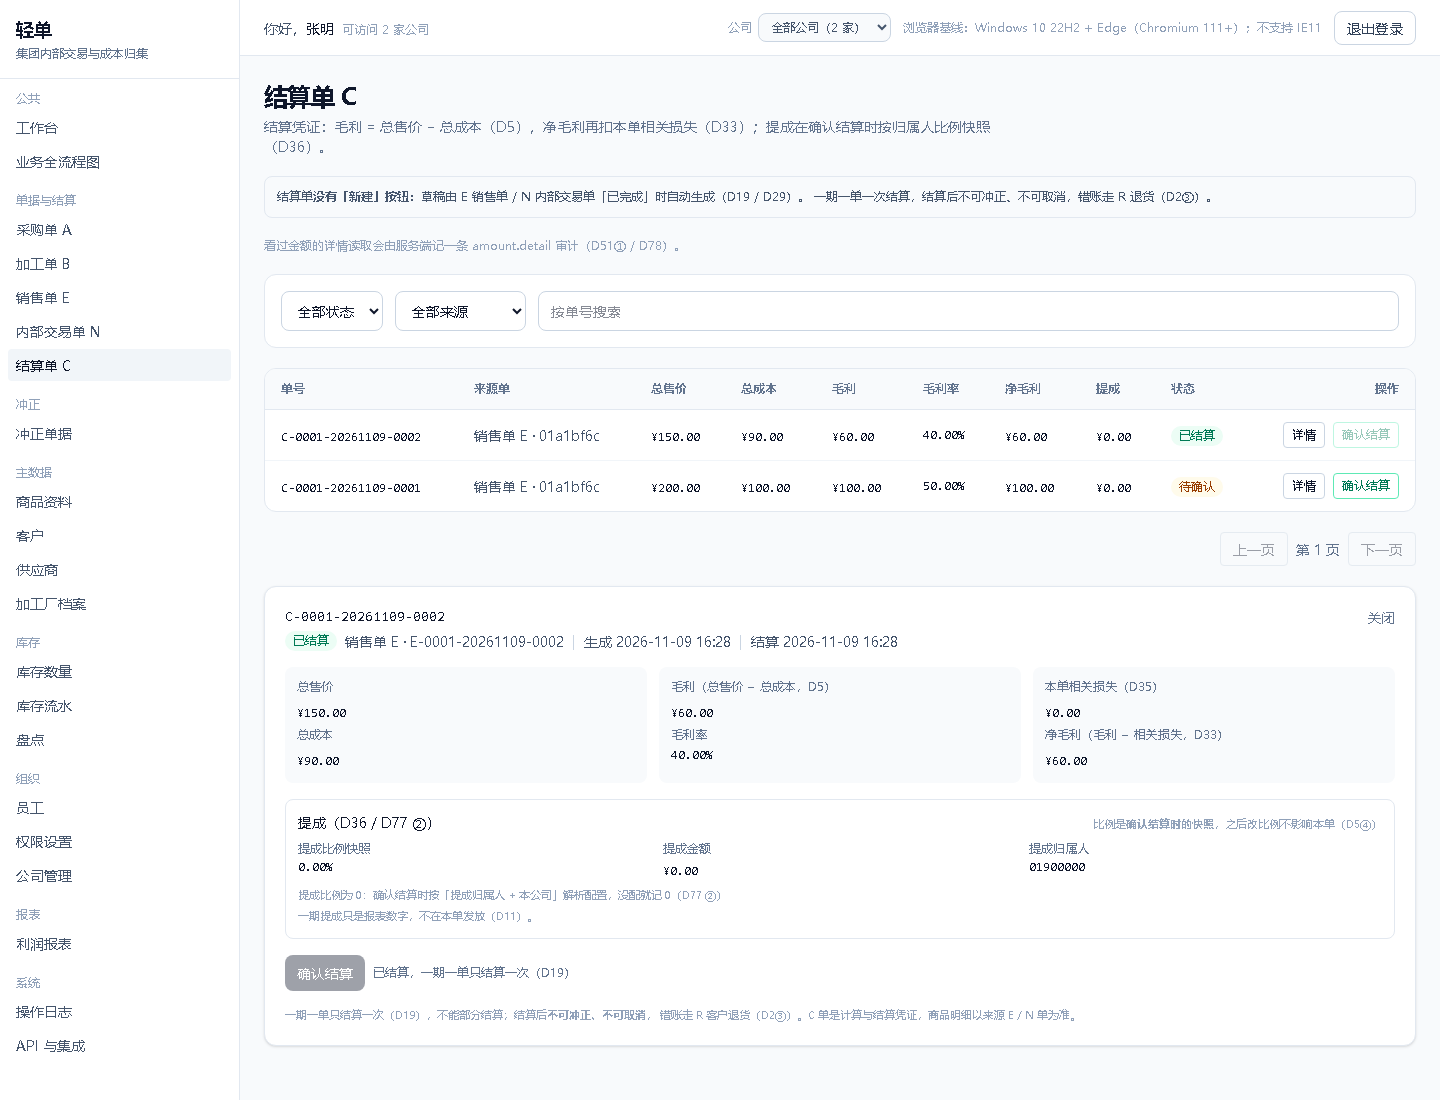
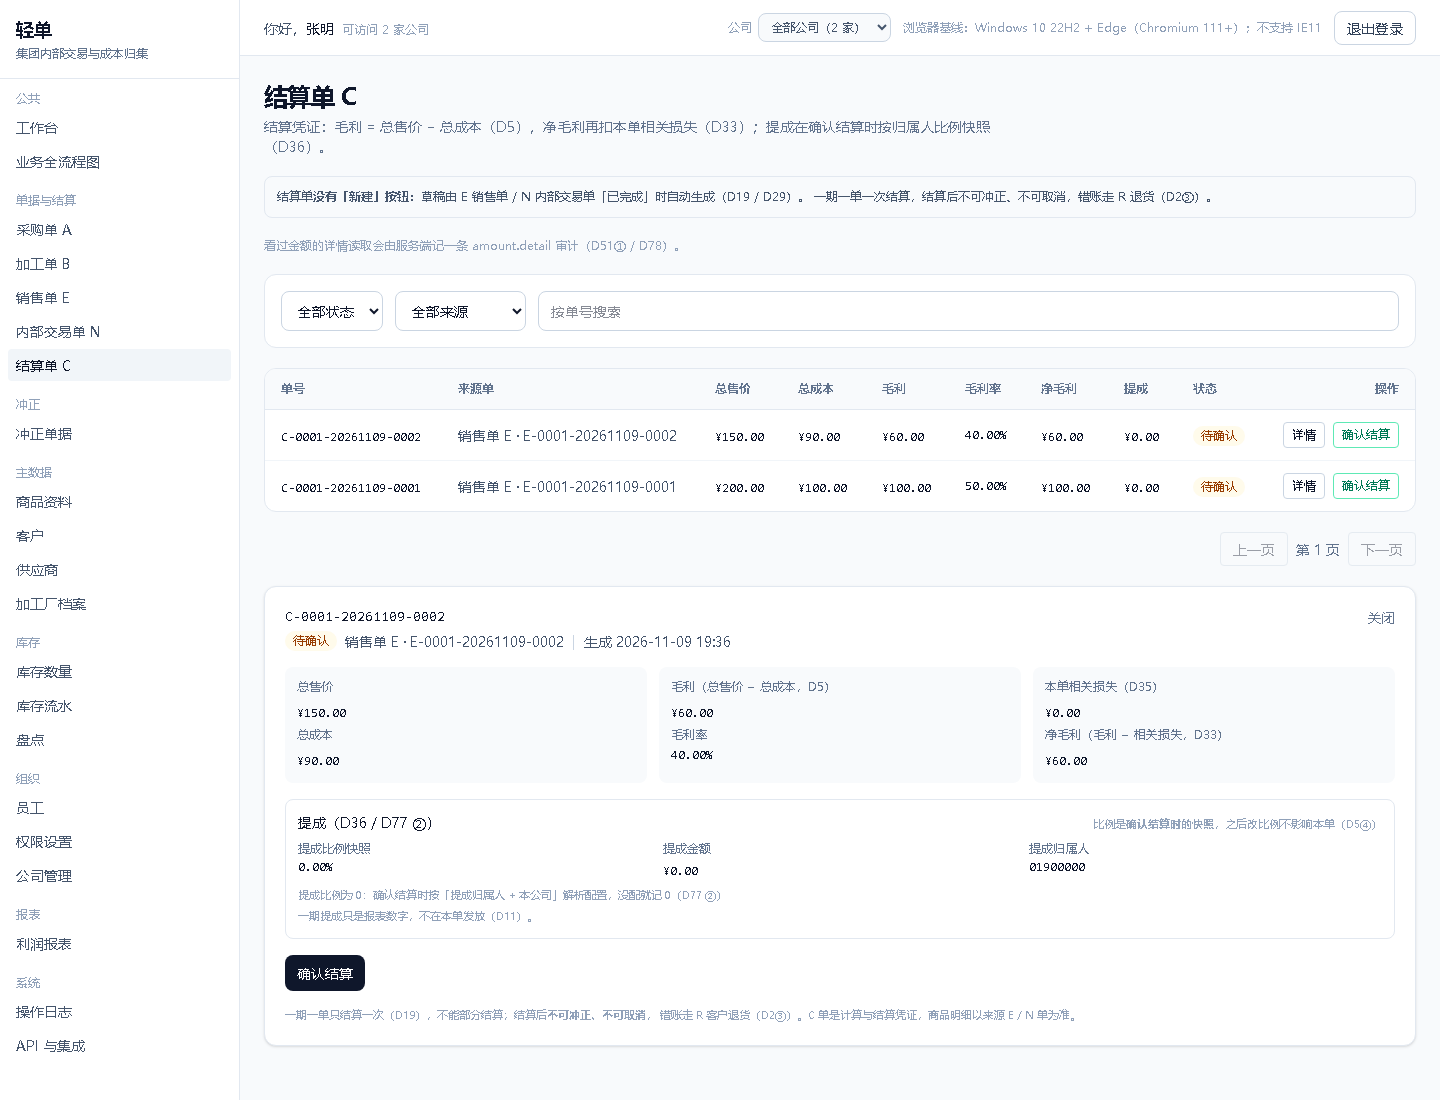
fix(web): 结算单列表的「来源单」也换真单号，一次批量映射不逐行发请求（#170 续）
上一个提交只把详情面板的来源单换成真实单号，列表仍是 id 前 8 位（`销售单 E · 01a1c018`），
财务对着列表没法核对是哪张 E / N 单。

改成按类型各拉一页来源单建 `id → 单号` 映射（`MAX_PAGE_LIMIT` 200 张，覆盖整页），
列表和详情都走真单号：

- 只在当前页真出现该类型时才查（`enabled: hasE / hasN`），没有 N 单就不打 N 的请求；
- 失败或没有来源单读权限 → 空表 → 该行退回 id 前 8 位，不让列表整体报错；
- 比最近 200 张更老的来源单解不出来，同样退回 id 前缀。

验证：
- 单测 **235** 条全过（新增 2 条：批量映射建成 `id → 单号`、403 时回空表）；
- `tsc --noEmit` / `eslint --max-warnings=0` 无错；
- 联调实测：列表两行都显示 `销售单 E · E-0001-20261109-0002` 这种真单号，
  `Network` 里只多出 **1 条** `/sales-orders?limit=200`（两行都是 E 单，没有 N 单就不发 N 的请求）。

diff --git a/apps/web/src/pages/settlements/settlements-api.test.ts b/apps/web/src/pages/settlements/settlements-api.test.ts
@@ -8,6 +8,7 @@ import {
   commissionNote,
   confirmBlockedText,
   fetchSourceDocNo,
+  fetchSourceDocNoMap,
   formatCommissionRate,
   formatRate,
   lossNote,
@@ -15,10 +16,10 @@ import {
   sourceDocText,
 } from './settlements-api';
 
-// 来源单单号解析要跨模块取来源单详情，这里把两个 api 换成桩（真实请求在联调里验证）。
-vi.mock('../sales/sales-api', () => ({ salesApi: { detail: vi.fn() } }));
+// 来源单单号解析要跨模块取来源单详情 / 列表，这里把两个 api 换成桩（真实请求在联调里验证）。
+vi.mock('../sales/sales-api', () => ({ salesApi: { detail: vi.fn(), list: vi.fn() } }));
 vi.mock('../internal-trades/internal-trades-api', () => ({
-  internalTradesApi: { detail: vi.fn() },
+  internalTradesApi: { detail: vi.fn(), list: vi.fn() },
 }));
 
 /**
@@ -103,6 +104,26 @@ describe('来源单单号解析（C 单契约没有 sourceDocNo）', () => {
   it('没有来源单读权限（403）时吞掉错误回 null，退回 id 前缀', async () => {
     vi.mocked(salesApi.detail).mockRejectedValueOnce(new Error('403 Forbidden'));
     await expect(fetchSourceDocNo('E', 'e-1')).resolves.toBeNull();
+  });
+
+  it('列表用批量映射：按类型各拉一页来源单，建成 id → 单号', async () => {
+    vi.mocked(salesApi.list).mockResolvedValueOnce({
+      items: [{ id: 'e-1', orderNo: 'E-0001-20261109-0002' }],
+      nextCursor: null,
+    } as never);
+
+    const map = await fetchSourceDocNoMap('E');
+
+    expect(salesApi.list).toHaveBeenCalledWith({ limit: 200 });
+    expect(map.get('e-1')).toBe('E-0001-20261109-0002');
+    expect(map.size).toBe(1);
+  });
+
+  it('批量映射拿不到（403 / 网络）时回空表，列表退回 id 前缀而不是整页报错', async () => {
+    vi.mocked(internalTradesApi.list).mockRejectedValueOnce(new Error('403 Forbidden'));
+    const map = await fetchSourceDocNoMap('N');
+    expect(map.size).toBe(0);
+    expect(map.get('n-1')).toBeUndefined();
   });
 });
 

diff --git a/apps/web/src/pages/settlements/SettlementsPage.tsx b/apps/web/src/pages/settlements/SettlementsPage.tsx
@@ -33,6 +33,7 @@ import {
   commissionNote,
   confirmBlockedText,
   fetchSourceDocNo,
+  fetchSourceDocNoMap,
   formatCommissionRate,
   formatRate,
   lossNote,
@@ -326,6 +327,31 @@ export function SettlementsPage() {
   const nextCursor = list.data?.nextCursor ?? null;
   const detailOrder = detail.data;
 
+  /**
+   * 来源单号批量映射（契约缺口补齐）：列表逐行发详情不划算，按类型各拉一页来源单建映射。
+   * 只在当前页真出现该类型时才查；失败 / 无来源单读权限 → 空表 → 退回 id 前 8 位。
+   */
+  const hasE = rows.some((order) => order.sourceDocType === 'E');
+  const hasN = rows.some((order) => order.sourceDocType === 'N');
+  const eDocNos = useQuery({
+    queryKey: settlementQueryKeys.sourceDocMap('E'),
+    queryFn: () => fetchSourceDocNoMap('E'),
+    enabled: hasE,
+    retry: false,
+    staleTime: 60_000,
+  });
+  const nDocNos = useQuery({
+    queryKey: settlementQueryKeys.sourceDocMap('N'),
+    queryFn: () => fetchSourceDocNoMap('N'),
+    enabled: hasN,
+    retry: false,
+    staleTime: 60_000,
+  });
+  const docNoOf = (order: SettlementOrder): string | undefined => {
+    const map = order.sourceDocType === 'E' ? eDocNos.data : nDocNos.data;
+    return map?.get(order.sourceDocId);
+  };
+
   return (
     <section className="mx-auto max-w-7xl space-y-5">
       <header>
@@ -448,7 +474,7 @@ export function SettlementsPage() {
                     </button>
                   </td>
                   <td className="whitespace-nowrap px-4 py-3 text-slate-600">
-                    {sourceDocText(order.sourceDocType, order.sourceDocId)}
+                    {sourceDocText(order.sourceDocType, order.sourceDocId, docNoOf(order))}
                   </td>
                   <td className="px-4 py-3">
                     <Money value={order.totalSaleAmount} canView={canViewPrice} />

diff --git a/apps/web/src/pages/settlements/settlements-api.ts b/apps/web/src/pages/settlements/settlements-api.ts
@@ -75,6 +75,8 @@ export const settlementQueryKeys = {
   detail: (id: string | null) => ['settlements', 'detail', id] as const,
   sourceDoc: (type: SettlementSourceDocType | null, id: string | null) =>
     ['settlements', 'source-doc', type, id] as const,
+  sourceDocMap: (type: SettlementSourceDocType) =>
+    ['settlements', 'source-doc-map', type] as const,
 };
 
 /**
@@ -84,7 +86,7 @@ export const settlementQueryKeys = {
  * 两条边界：
  * - 调用者可能只有 `settlement.read`、没有 `sales.read` → 来源单详情 403，
  *   **吞掉错误回 `null`**，退回 id 前 8 位，不让详情面板整体报错；
- * - 只做详情，不做列表：列表每行各发一条请求不划算，列表继续显示 id 前 8 位。
+ * - 只做详情，不做列表：列表改用下面的 `fetchSourceDocNoMap` 批量换。
  */
 export async function fetchSourceDocNo(
   type: SettlementSourceDocType,
@@ -95,6 +97,27 @@ export async function fetchSourceDocNo(
     return doc.orderNo;
   } catch {
     return null;
+  }
+}
+
+/**
+ * 来源单单号**批量**映射：列表用。
+ *
+ * 逐行发详情请求不划算（一页 50 行就是 50 条），改成按类型拉一页来源单建成 `id → 单号`，
+ * 一次最多 200 张（`MAX_PAGE_LIMIT`）覆盖整页。边界同 `fetchSourceDocNo`：403 或失败就回空表，
+ * 列表退回 id 前 8 位；比 200 张更老的来源单也解不出来，同样退回。
+ */
+export async function fetchSourceDocNoMap(
+  type: SettlementSourceDocType,
+): Promise<ReadonlyMap<string, string>> {
+  try {
+    const page =
+      type === 'E'
+        ? await salesApi.list({ limit: 200 })
+        : await internalTradesApi.list({ limit: 200 });
+    return new Map(page.items.map((item) => [item.id, item.orderNo]));
+  } catch {
+    return new Map();
   }
 }
 
